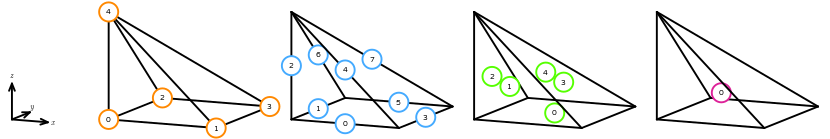
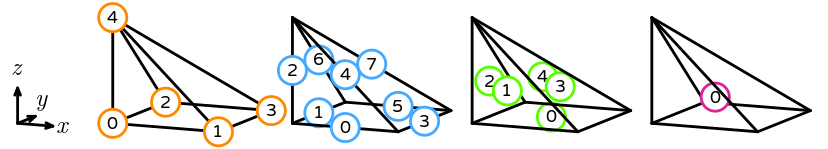
font_size -> font-size

Changed region(s): [[0.0, 0.0, 0.9964, 1.0], [0.0, 0.4317, 0.0302, 0.518]]

diff --git a/symfem/plotting.py b/symfem/plotting.py
@@ -441,7 +441,7 @@ class NCircle(PictureElement):
 
         return (f"<circle cx='{c[0]}' cy='{c[1]}' r='{self.radius}' "
                 f"stroke='{self.color}' stroke-width='{self.width}' fill='{self.fill_color}' />\n"
-                f"<text x='{c[0]}' y='{c[1]}' fill='{self.text_color}' font_size='{self.font_size}'"
+                f"<text x='{c[0]}' y='{c[1]}' fill='{self.text_color}' font-size='{self.font_size}'"
                 f" style=\"text-anchor:middle;dominant-baseline:middle;font-family:{self.font}\">"
                 f"{self.number}</text>\n")
 
@@ -582,7 +582,7 @@ class Math(PictureElement):
 
         c = map_pt(self.point)
 
-        return (f"<text x='{c[0]}' y='{c[1]}' fill='{self.color}' font_size='{self.font_size}'"
+        return (f"<text x='{c[0]}' y='{c[1]}' fill='{self.color}' font-size='{self.font_size}'"
                 f" style=\"{anchor};font-family:'CMU Serif',serif;font-style:italic\">"
                 f"{self.math}</text>\n")
 

diff --git a/scripts/draw_references.py b/scripts/draw_references.py
@@ -22,4 +22,5 @@ for shape in ["interval", "triangle", "tetrahedron",
 
     filename = shape.replace(" ", "_") + "_numbering"
     ref.plot_entity_diagrams(
-        f"{folder}/{filename}.png", {"png_width": 230 + 200 * ref.tdim})
+        f"{folder}/{filename}.png", {"png_width": 207 * (ref.tdim + 1)},
+        scale=300)
